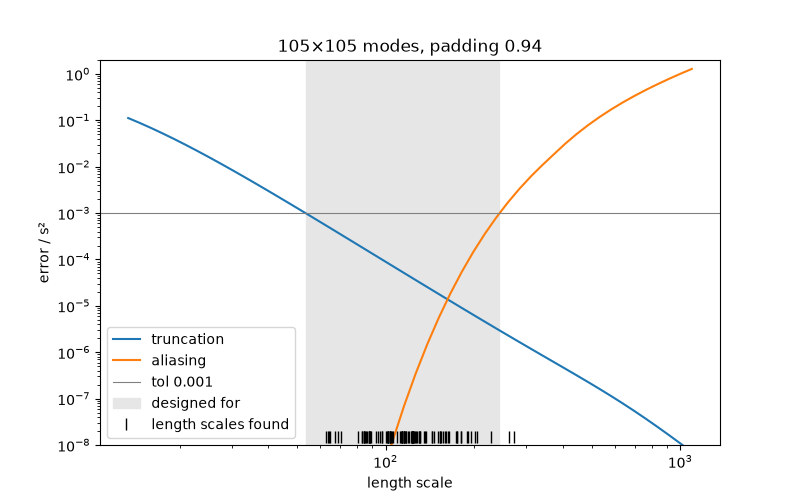
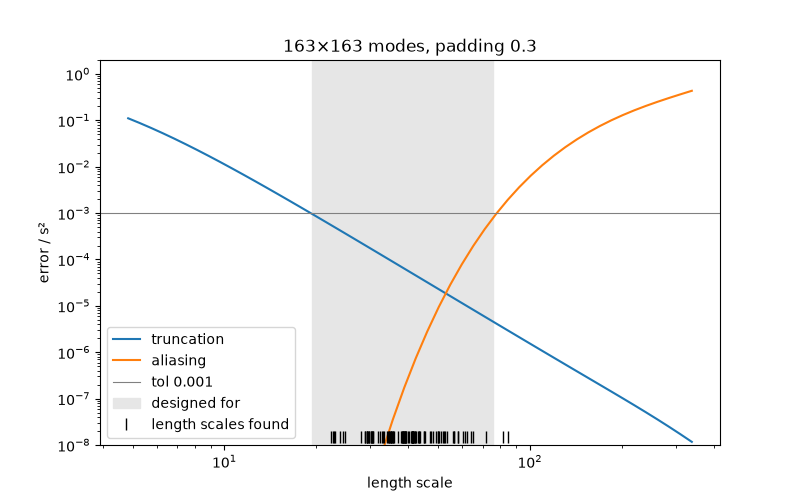
Docs: realistic length-scale priors in the guides (ℓ a few percent of the field)

diff --git a/docs/discretisation.md b/docs/discretisation.md
@@ -64,7 +64,7 @@ its prior's 1% and 99% quantiles:
 
 ```python
 kernel = Matern32(
-    length_scale=Parameter(prior=LogNormal(120.0, 40.0)),
+    length_scale=Parameter(prior=LogNormal(40.0, 12.0)),
     variance=Parameter(prior=LogNormal(1.0, 0.5)),
 )
 field = FourierGP(kernel, domain=domain)
@@ -73,21 +73,18 @@ print(field.design)  # (tol, shortest, longest length scale) it was chosen for
 ```
 
 ```text
-(105, 105) 0.94
-(0.001, 53.50..., 242.23...)
+(163, 163) 0.3
+(0.001, 19.4..., 75.8...)
 ```
 
-The padding is set by the longest length scale and the modes by the shortest.
-Here the padding is large, 0.94 of the extent on each side: the prior allows
-length scales up to 242″, a fifth of the domain, and keeping aliasing below
-0.1% needs a gap of about ten length scales between the data and their copies.
-Fields whose length scales are small compared with the domain need much less.
-A wide prior costs modes, padding or both. You can change what the choice is
-made for:
+The padding is set by the longest length scale: keeping aliasing below 0.1%
+needs a gap of about ten length scales between the data and their periodic
+copies. The modes are set by the shortest. A wide prior costs both. You can
+change what the choice is made for:
 
 ```python
 FourierGP(kernel, domain=domain, tol=1e-2)  # 1% instead of 0.1%
-FourierGP(kernel, domain=domain, length_scale=(60.0, 300.0))  # your own range
+FourierGP(kernel, domain=domain, length_scale=(20.0, 100.0))  # your own range
 FourierGP(kernel, domain=domain, quantiles=(0.05, 0.95))  # a narrower part of the prior
 ```
 
@@ -108,7 +105,7 @@ be with a different length scale, number of modes or padding:
 from spectracles.discretisation import discretisation_error
 
 print(discretisation_error(by_hand))
-print(discretisation_error(by_hand, length_scale=40.0).truncation)  # if ℓ were 40″
+print(discretisation_error(by_hand, length_scale=15.0).truncation)  # if ℓ were 15″
 print(discretisation_error(by_hand, n_modes=51).truncation)  # with fewer modes
 print(discretisation_error(by_hand, padding=0.05).aliasing)  # with less padding
 ```
@@ -116,7 +113,7 @@ print(discretisation_error(by_hand, padding=0.05).aliasing)  # with less padding
 It works for a kernel before you build any field, too:
 
 ```python
-e = discretisation_error(kernel, domain=domain, n_modes=101, padding=0.2, length_scale=80.0)
+e = discretisation_error(kernel, domain=domain, n_modes=101, padding=0.2, length_scale=30.0)
 ```
 
 An array of length scales gives the errors along it, e.g. for a plot:
@@ -124,7 +121,7 @@ An array of length scales gives the errors along it, e.g. for a plot:
 ```python
 import numpy as np
 
-curve = discretisation_error(by_hand, length_scale=np.geomspace(20.0, 1000.0, 30))
+curve = discretisation_error(by_hand, length_scale=np.geomspace(5.0, 300.0, 30))
 curve.truncation, curve.aliasing  # arrays, one value per length scale
 ```
 
@@ -134,8 +131,8 @@ a given accuracy need?
 ```python
 from spectracles.discretisation import required_modes, required_padding
 
-required_modes(kernel, domain, length_scale=40.0, padding=0.2, tol=1e-3)  # modes per side
-required_padding(kernel, domain, length_scale=400.0, tol=1e-3)  # fraction of the extent
+required_modes(kernel, domain, length_scale=20.0, padding=0.2, tol=1e-3)  # modes per side
+required_padding(kernel, domain, length_scale=80.0, tol=1e-3)  # fraction of the extent
 ```
 
 ## Checking a fit

diff --git a/docs/models.md b/docs/models.md
@@ -83,7 +83,7 @@ which sets how smooth the field is, and the domain:
 ```python
 field = FourierGP(
     Matern32(
-        length_scale=Parameter(prior=LogNormal(120.0, 40.0)),  # arcsec
+        length_scale=Parameter(prior=LogNormal(40.0, 12.0)),  # arcsec
         variance=Parameter(prior=LogNormal(1.0, 0.5)),
     ),
     domain=domain,
@@ -93,9 +93,7 @@ print(field.n_modes, field.padding)
 
 The field is represented by Fourier modes on a box larger than the domain. The
 number of modes and the size of the margin are chosen for you, so that the
-field is accurate (to 0.1%) for every length scale its prior allows. The
-margin grows with the longest length scale, so fields that can vary on scales
-close to the size of the domain get a much larger box.
+field is accurate (to 0.1%) for every length scale its prior allows.
 [Geometry and discretisation](discretisation.md) explains the choice, how to
 change it, and how to check a fit afterwards.
 
@@ -113,7 +111,7 @@ example, is positive, and often best modelled as the exponential of a GP:
 ```python
 flux = FourierGP(
     Matern32(
-        length_scale=Parameter(prior=LogNormal(120.0, 40.0)),
+        length_scale=Parameter(prior=LogNormal(40.0, 12.0)),
         variance=Parameter(prior=LogNormal(1.0, 0.5)),
     ),
     domain=domain,
@@ -184,7 +182,7 @@ function that makes a new flux field each time it is called:
 ```python
 velocity = FourierGP(
     Matern32(
-        length_scale=Parameter(prior=LogNormal(120.0, 40.0)),
+        length_scale=Parameter(prior=LogNormal(40.0, 12.0)),
         variance=Parameter(prior=LogNormal(400.0, 200.0)),  # (km/s)²
     ),
     domain=domain,
@@ -193,7 +191,7 @@ velocity = FourierGP(
 
 def flux_field():
     kernel = Matern32(
-        length_scale=Parameter(prior=LogNormal(120.0, 40.0)),
+        length_scale=Parameter(prior=LogNormal(40.0, 12.0)),
         variance=Parameter(prior=LogNormal(1.0, 0.5)),
     )
     return FourierGP(kernel, domain=domain, mean=Parameter(prior=Normal(0.0, 1.0)), link="exp")
@@ -236,7 +234,7 @@ from spectracles import FieldFromRatio, FieldPlusScatter
 
 log10_ratio = FourierGP(
     Matern32(
-        length_scale=Parameter(prior=LogNormal(200.0, 80.0)),
+        length_scale=Parameter(prior=LogNormal(60.0, 20.0)),
         variance=Parameter(prior=LogNormal(0.1, 0.05)),
     ),
     domain=domain,
